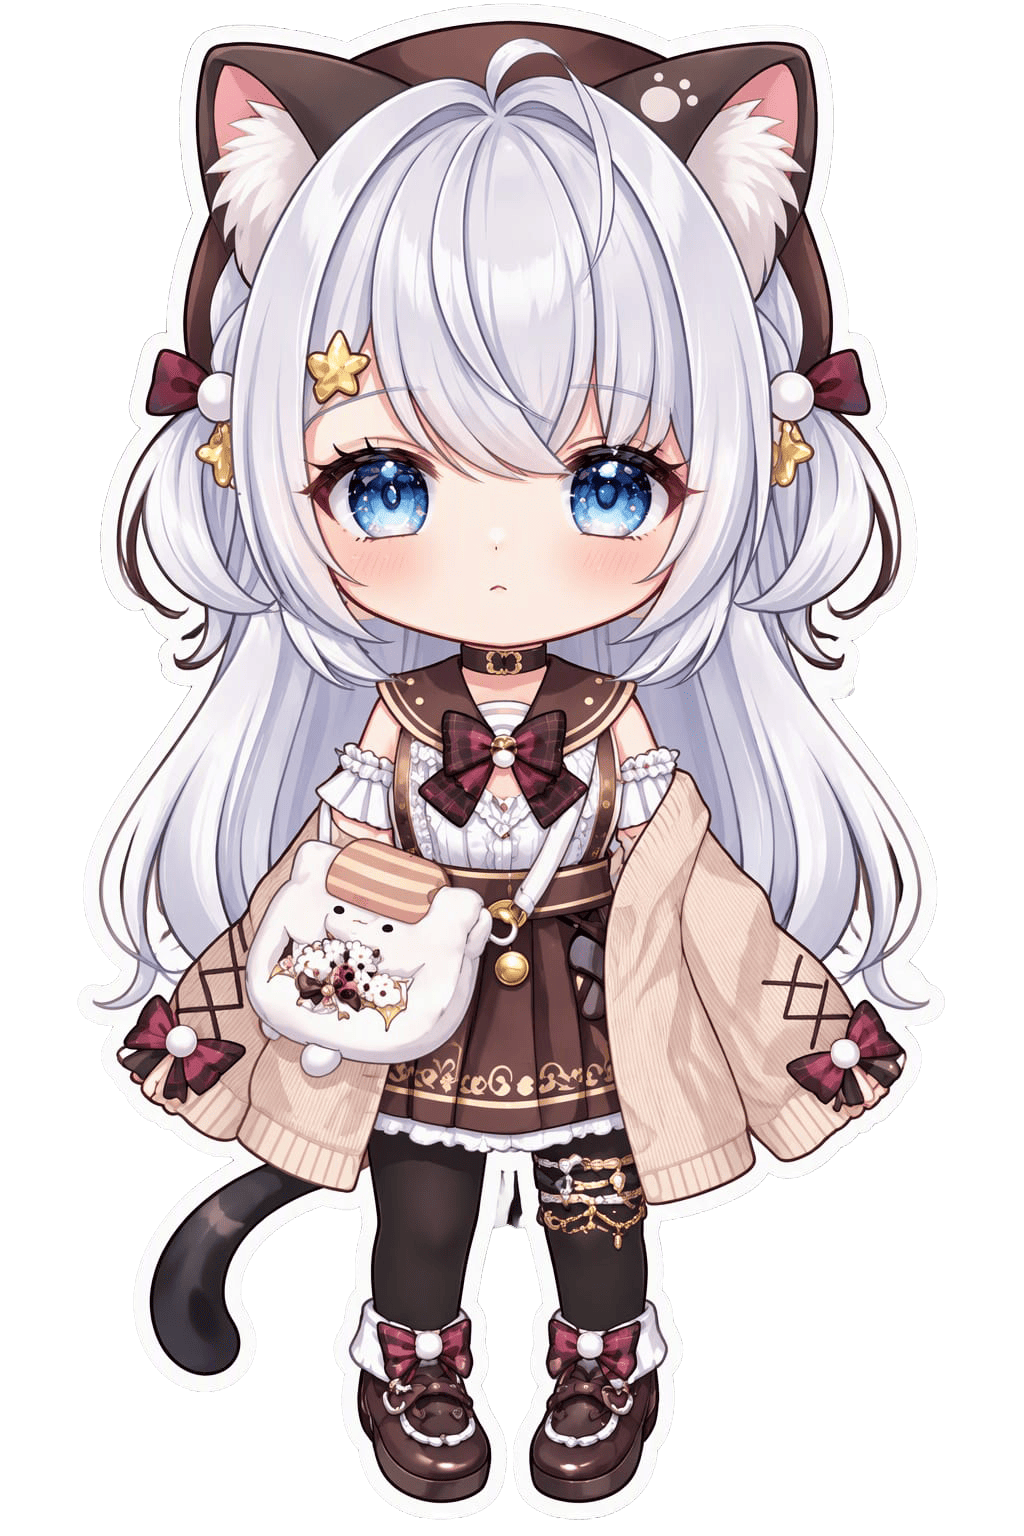
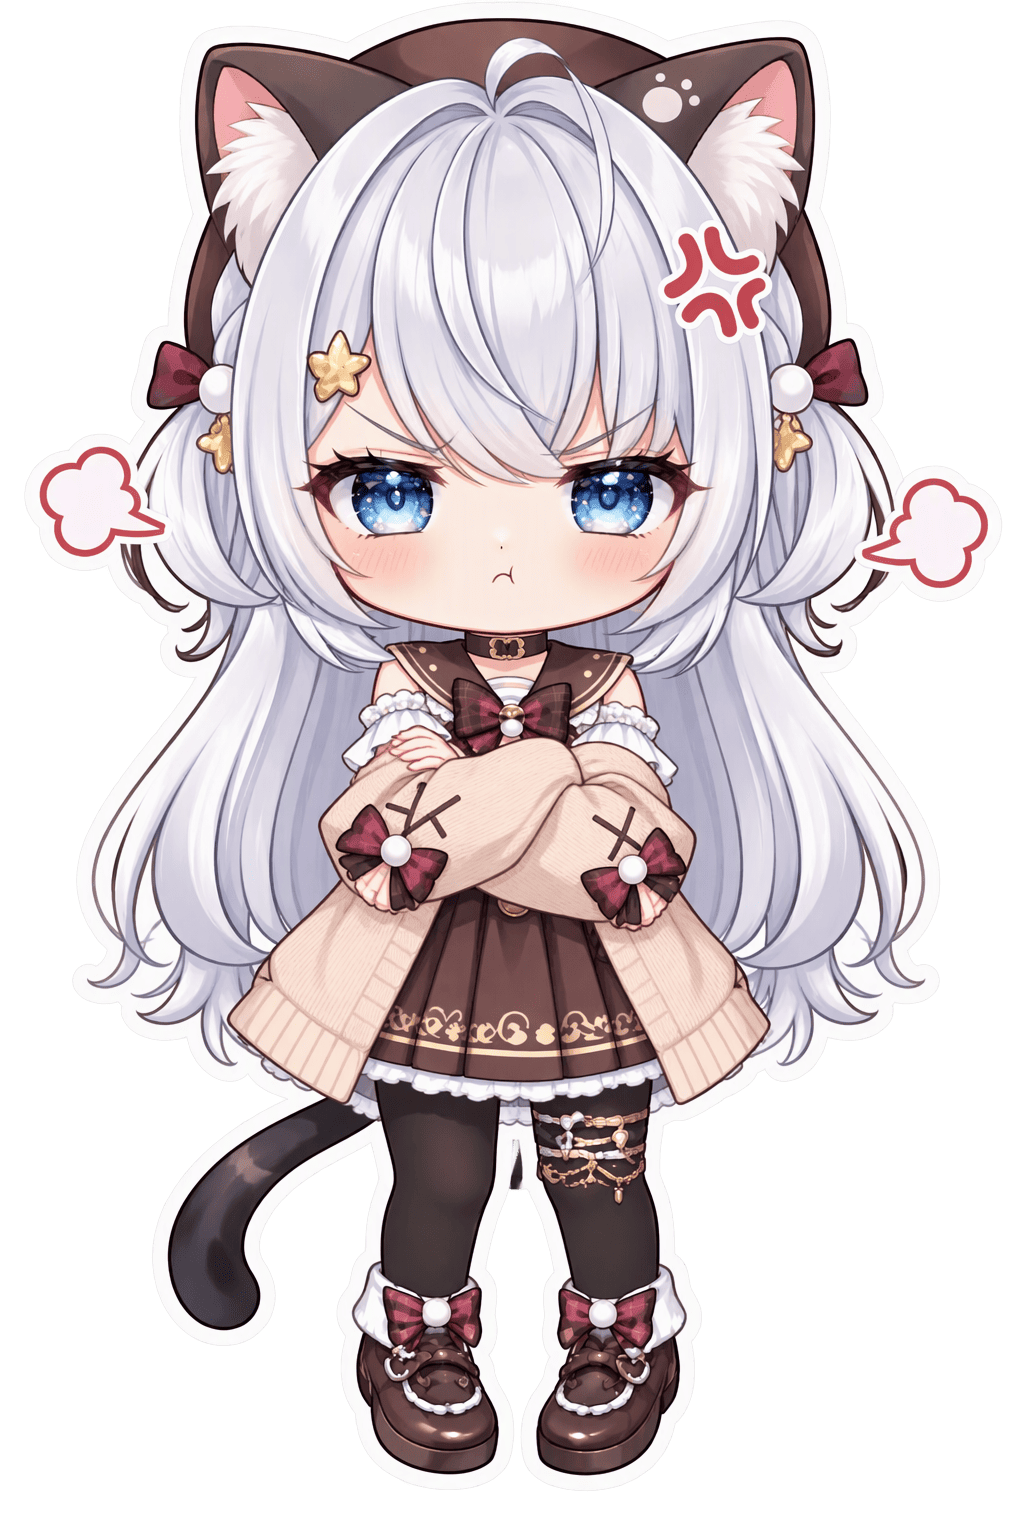
Add files via upload

diff --git a/index.html b/index.html
@@ -14,6 +14,15 @@ body{display:flex;justify-content:center;align-items:flex-start;padding:8px}
 #toys{position:absolute;inset:0;z-index:3}
 .toy{position:absolute;transform-origin:center center;filter:drop-shadow(0 4px 5px rgba(80,20,50,.22));transition:transform .18s,opacity .18s;pointer-events:none}
 .toy img{width:100%;height:100%;object-fit:contain;display:block}
+/* Claw approaching: a very subtle physical jostle for nearby plushies. */
+.toy.shake{animation:toyJostle .34s ease-in-out both}
+@keyframes toyJostle{
+  0%{transform:translate(0,0) rotate(var(--base-rot,0deg))}
+  22%{transform:translate(var(--shake-x,-1px),var(--shake-y,.5px)) rotate(calc(var(--base-rot,0deg) - 1.2deg))}
+  48%{transform:translate(calc(var(--shake-x,-1px) * -0.75),calc(var(--shake-y,.5px) * -1)) rotate(calc(var(--base-rot,0deg) + 1deg))}
+  72%{transform:translate(calc(var(--shake-x,-1px) * .45),calc(var(--shake-y,.5px) * .5)) rotate(calc(var(--base-rot,0deg) - .6deg))}
+  100%{transform:translate(0,0) rotate(var(--base-rot,0deg))}
+}
 #claw{position:absolute;z-index:12;width:27%;left:1.5%;top:4.0%;pointer-events:none;transition:left .06s linear,top .16s ease-out;will-change:left,top}
 #claw img{width:100%;display:block}
 #carriedToy{position:absolute;z-index:11;width:14%;display:none;pointer-events:none;transform:translate(-50%,0);filter:drop-shadow(0 6px 6px rgba(70,10,45,.22))}
@@ -90,7 +99,17 @@ body{display:flex;justify-content:center;align-items:flex-start;padding:8px}
   user-select:none;
   -webkit-user-drag:none;
 }
-#leftPlatformForeground{
+/* 綽貓「接公仔」姿勢：獨立控制大小／位置，方便美術微調 */
+#cheukcatCharacter.catch{
+  left:5%;
+  top:33%;
+  width:26%;
+}
+#cheukcatCharacter.catch img{
+  width:100%;
+}
+/* 掉落口前景：放在綽貓前面遮住腳部 */
+#dropChuteForeground{
   position:absolute;
   z-index:9;
   left:6.5%;
@@ -122,7 +141,7 @@ body{display:flex;justify-content:center;align-items:flex-start;padding:8px}
 <div id="cheukcatCharacter">
   <img id="cheukcatCharacterImg" src="cheukcat_idle.png" alt="綽貓">
 </div>
-<img id="leftPlatformForeground" src="left_platform_foreground.png" alt="">
+<img id="dropChuteForeground" src="drop_chute_foreground.png" alt="">
 
 <div id="playfield">
 <div id="cable"></div>
@@ -192,6 +211,7 @@ function spawnToys(){
        rot=rand(-12,12);
      }
      el.style.transform=`rotate(${rot}deg)`;
+     el.style.setProperty("--base-rot", `${rot}deg`);
      el.style.zIndex=10+row;
 
      const img=document.createElement("img");
@@ -205,7 +225,9 @@ function spawnToys(){
 function updateCredit(){credit.textContent=state.credits}
 function setCheukcatPose(pose){
   if(!cheukcatCharacterImg)return;
-  cheukcatCharacterImg.src = pose==="catch" ? "cheukcat_catch.png" : "cheukcat_idle.png";
+  const isCatch = pose==="catch";
+  cheukcatCharacter.classList.toggle("catch", isCatch);
+  cheukcatCharacterImg.src = isCatch ? "cheukcat_catch.png" : "cheukcat_idle.png";
 }
 function setClaw(){claw.style.left=(state.clawX-13.5)+"%";claw.style.top=state.clawY+"%";
       if(cable){cable.style.left=(state.clawX-0.55)+"%";cable.style.height=Math.max(1,state.clawY+2.2)+"%";}if(carried.style.display!=="none"){carried.style.left=state.clawX+"%";carried.style.top=(state.clawY+19)+"%"}}
@@ -239,6 +261,25 @@ function nearestToy(){
  return fallback ? {el:fallback.el,d:fallbackD,r:fallback.r} : {el:null,d:Infinity};
 }
 function removeToy(el){if(!el)return;el.dataset.removed="1";el.style.opacity="0";setTimeout(()=>el.remove(),220)}
+function jostleNearbyToys(targetEl){
+ const fr=playfield.getBoundingClientRect();
+ const tr=targetEl.getBoundingClientRect();
+ const tx=tr.left-fr.left+tr.width/2, ty=tr.top-fr.top+tr.height/2;
+ const radius=Math.max(tr.width*1.65,fr.width*.13);
+ document.querySelectorAll(".toy").forEach(el=>{
+   if(el===targetEl||el.dataset.removed)return;
+   const r=el.getBoundingClientRect();
+   const x=r.left-fr.left+r.width/2, y=r.top-fr.top+r.height/2;
+   if(Math.hypot(x-tx,y-ty)<=radius){
+     el.style.setProperty("--shake-x", `${(Math.random()<.5?-1:1)*rand(.7,1.5)}px`);
+     el.style.setProperty("--shake-y", `${rand(.3,.8)}px`);
+     el.classList.remove("shake");
+     void el.offsetWidth;
+     el.classList.add("shake");
+     setTimeout(()=>el.classList.remove("shake"),380);
+   }
+ });
+}
 function setCollected(id){state.collected[id]=(Number(state.collected[id])||0)+1;localStorage.setItem("cheukcat_collection_v3",JSON.stringify(state.collected))}
 function award(t){setCollected(t.id);exitPrize.innerHTML=`<img class="prize" src="${t.img}" alt="${t.name}">`;toastMsg(`🎉 ${t.name} GET！${t.id==="nose"?"⭐ 超稀有！":""}`,2200);beep(t.id==="nose"?900:650,.18);setTimeout(()=>exitPrize.innerHTML="",2100)}
 async function moveClawTo(x,y,duration){const sx=state.clawX,sy=state.clawY,steps=Math.max(1,Math.round(duration/30));for(let i=1;i<=steps;i++){await wait(duration/steps);const p=i/steps;state.clawX=sx+(x-sx)*p;state.clawY=sy+(y-sy)*p;setClaw()}}
@@ -252,6 +293,10 @@ async function tryClaw(){
  const targetY=Math.max(8,Math.min(56,((tr.top-fr.top)/fr.height)*100-8));
  const horizontalGap=Math.abs(targetX-state.clawX),aligned=horizontalGap<=11;
  await moveClawTo(state.clawX,targetY,1500);
+ // Just as the claw reaches the plush, gently disturb the nearby pile.
+ // It is visual only: it does not change targeting, physics, or success chance.
+ jostleNearbyToys(target.el);
+ await wait(90);
  clawImg.src="claw_closed.png";await wait(420);
  const chance=aligned?(target.el.dataset.id==="nose"?.52:.84):0;
  if(aligned&&Math.random()<chance){
